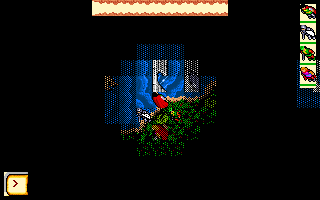
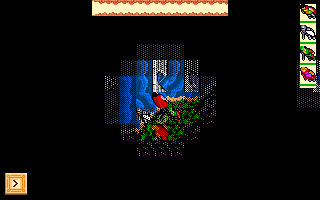
Make the Nuvie new-style UI the only look; drop the new_style_ui option and the old scroll paths

Changed region(s): [[0.0, 0.84, 0.0938, 0.99], [0.4062, 0.57, 0.4688, 0.63], [0.5, 0.39, 0.5312, 0.45]]

diff --git a/internal/game/layout.go b/internal/game/layout.go
@@ -86,7 +86,7 @@ type layout struct {
 	shown []byte
 	paper *vga.Pixmap
 	// arts are Nuvie's pictures in the game's colours and backdrops the status area's slot
-	// tiles, made when first drawn (the new style UI)
+	// tiles, made when first drawn
 	arts      map[string]*art
 	backdrops map[int][]byte
 	// showDate and showLog are toggled by the hot keys
@@ -130,7 +130,7 @@ type panel struct {
 	from   image.Rectangle
 	at     image.Point
 	window *inventoryWindow // shown instead of the canvas
-	// gump, in the new style UI, shows the panel as Nuvie's gump; keyed leaves the
+	// gump shows the panel as Nuvie's gump; keyed leaves the
 	// background colour out so that the scroll shows through
 	gump  *gump
 	keyed bool
@@ -169,7 +169,7 @@ func (g *Game) copyView(x0, y0, x1, y1, toX, toY int) {
 // panels returns the scrolls and then the panels shown over the world, the topmost last.
 func (g *Game) panels() (scrolls []image.Rectangle, panels []panel) {
 	add := func(scroll bool, from image.Rectangle, at image.Point) {
-		p := panel{from: from, at: at, keyed: scroll && g.newStyle()}
+		p := panel{from: from, at: at, keyed: scroll}
 		if scroll {
 			scrolls = append(scrolls, p.onScreen().Inset(-scrollPadding))
 		}
@@ -198,13 +198,7 @@ func (g *Game) panels() (scrolls []image.Rectangle, panels []panel) {
 		add(true, statusPanel, image.Pt(right-scrollPadding-statusPanel.Dx(), margin+scrollPadding))
 	}
 	for _, w := range g.windows {
-		p := panel{from: statusPanel, at: w.at, window: w}
-		if g.newStyle() {
-			p.gump = inventoryGump(w.info)
-		} else {
-			scrolls = append(scrolls, p.onScreen().Inset(-scrollPadding))
-		}
-		panels = append(panels, p)
+		panels = append(panels, panel{from: statusPanel, at: w.at, window: w, gump: inventoryGump(w.info)})
 	}
 	if g.showDate || sound.Settings.DisplayedWindDir && g.windBorne() {
 		add(true, datePanel, image.Pt((g.screenWidth-datePanel.Dx())/2, skyPanel.Dy()+scrollPadding+margin))
@@ -246,11 +240,7 @@ func (g *Game) Frame() *host.Frame {
 	copy(g.shown, g.world)
 	scrolls, panels := g.panels()
 	for _, s := range scrolls {
-		if g.newStyle() {
-			g.drawNuvieScroll(s)
-		} else {
-			g.drawScroll(s)
-		}
+		g.drawNuvieScroll(s)
 	}
 	for _, p := range panels {
 		if p.window != nil && p.window.pixels == nil {
@@ -299,17 +289,15 @@ func (g *Game) drawKeyed(p panel) {
 	}
 }
 
-// drawScroll draws a scroll filling r, cut from PAPER.BMP's message scroll, framed by
-// Nuvie's border in the new style UI.
+// drawScroll draws a popup's scroll filling r, cut from PAPER.BMP's message scroll and
+// framed by Nuvie's border.
 func (g *Game) drawScroll(r image.Rectangle) {
 	if g.paper == nil {
 		return
 	}
 	left, top := scrollInner.Min.X-scrollSource.Min.X, scrollInner.Min.Y-scrollSource.Min.Y
 	right, bottom := scrollSource.Max.X-scrollInner.Max.X, scrollSource.Max.Y-scrollInner.Max.Y
-	if sound.Settings.NewStyleUI {
-		defer g.drawBorder(r)
-	}
+	defer g.drawBorder(r)
 	r = r.Intersect(image.Rect(0, 0, g.screenWidth, g.screenHeight))
 	for y := r.Min.Y; y < r.Max.Y; y++ {
 		var from int

diff --git a/internal/game/nuvie_test.go b/internal/game/nuvie_test.go
@@ -3,23 +3,14 @@ package game
 import (
 	"image"
 	"testing"
-
-	"github.com/memmaker/u6-go/internal/sound"
 )
 
-// TestNewStyleUI shows the log, the avatar's inventory in the status area and the second
-// member's window, then the portrait, a menu and a sign, and writes each with the scroll
-// look (ui_*_scroll.png) and the new style (ui_*_new_style.png) to $U6_PNG_DIR. The new
-// style's gumps must send clicks on their parts to the status area's places under them.
-func TestNewStyleUI(t *testing.T) {
+// TestUI shows the log, the avatar's inventory in the status area and the second member's
+// window, then the portrait, a menu and a sign, and writes each to $U6_PNG_DIR (ui_*.png).
+// The gumps must send clicks on their parts to the status area's places under them.
+func TestUI(t *testing.T) {
 	inGame(t, func(g *Game) {
-		defer func() { sound.Settings.NewStyleUI = false }()
-		both := func(name string) {
-			sound.Settings.NewStyleUI = false
-			writePNG(t, g, "ui_"+name+"_scroll.png")
-			sound.Settings.NewStyleUI = true
-			writePNG(t, g, "ui_"+name+"_new_style.png")
-		}
+		shot := func(name string) { writePNG(t, g, "ui_"+name+".png") }
 		g.showLog = true
 		g.StatusDisplay, g.statusMember = cmdStatusEquipment, 0
 		g.StatusDirty = true
@@ -27,7 +18,7 @@ func TestNewStyleUI(t *testing.T) {
 		if g.PartySize > 1 {
 			g.toggleWindow(1)
 		}
-		both("inventory")
+		shot("inventory")
 
 		gp := inventoryGump(g.inventoryInfo())
 		for _, pt := range []image.Point{
@@ -45,14 +36,14 @@ func TestNewStyleUI(t *testing.T) {
 		g.StatusDisplay = cmdStatusPortrait
 		g.StatusDirty = true
 		g.RefreshStatus()
-		both("portrait")
+		shot("portrait")
 
 		g.popup = g.centredPopup([]string{"Save", "Load", "Settings"})
 		g.popup.choice = 0
-		both("menu")
+		shot("menu")
 
 		g.popup = &popup{sign: signText("<BRITAIN>"), choice: noChoice}
-		both("sign")
+		shot("sign")
 		g.popup = nil
 	})
 }

diff --git a/internal/game/windows_test.go b/internal/game/windows_test.go
@@ -5,35 +5,24 @@ import (
 	"testing"
 
 	"github.com/memmaker/u6-go/internal/host"
-	"github.com/memmaker/u6-go/internal/sound"
 )
 
 // TestDragBetweenWindows opens the second member's window, drags a dagger of the avatar's
 // onto it (Move, run as the command runs) and back onto the avatar's doll (Ready), and
 // writes the screen to windows.png ($U6_PNG_DIR).
-// It runs in the scroll look and again in the new style UI (windows_new_style.png).
 func TestDragBetweenWindows(t *testing.T) {
 	inGame(t, func(g *Game) {
 		if g.PartySize < 2 {
 			t.Skip("a party of one")
 		}
-		defer func() { sound.Settings.NewStyleUI = false }()
-		for _, newStyle := range []bool{false, true} {
-			sound.Settings.NewStyleUI = newStyle
-			g.windows = nil
-			dragBetweenWindows(t, g)
-		}
+		dragBetweenWindows(t, g)
 	})
 }
 
 // windowScreenPoint is where the status area's point pt shows in window w.
 func (g *Game) windowScreenPoint(w *inventoryWindow, pt image.Point) image.Point {
-	if g.newStyle() {
-		if at, ok := inventoryGump(w.info).screenPoint(pt, w.at); ok {
-			return at
-		}
-	}
-	return w.at.Add(pt.Sub(statusPanel.Min))
+	at, _ := inventoryGump(w.info).screenPoint(pt, w.at)
+	return at
 }
 
 func dragBetweenWindows(t *testing.T, g *Game) {
@@ -52,11 +41,7 @@ func dragBetweenWindows(t *testing.T, g *Game) {
 		at := g.windowScreenPoint(w, image.Pt(inventoryX, inventoryY))
 		host.MouseX, host.MouseY = at.X+1, at.Y+1
 		g.dragging, g.draggedTile = true, g.tileOf(dagger)
-		if g.newStyle() {
-			writePNG(t, g, "windows_new_style.png")
-		} else {
-			writePNG(t, g, "windows.png")
-		}
+		writePNG(t, g, "windows.png")
 		g.dragging = false
 		if cmd := g.dropOn(selection{obj: dagger}, false); cmd != 'M' || g.queuedTargets[1].obj != second {
 			t.Fatalf("drop on the window: command %d, targets %v", cmd, g.queuedTargets)

diff --git a/internal/game/nuvie.go b/internal/game/nuvie.go
@@ -6,11 +6,9 @@ import (
 	"image/color"
 	"image/png"
 	"strings"
-
-	"github.com/memmaker/u6-go/internal/sound"
 )
 
-// The new style UI's art, from ScummVM's ultima.dat (devtools/create_ultima/files/ultima6,
+// The UI's art, from ScummVM's ultima.dat (devtools/create_ultima/files/ultima6,
 // GPL; see nuvie/COPYING): Nuvie's dialog border, gump backgrounds and buttons, its scroll
 // and sign, and its gump and sign fonts. The pictures are PNG copies of Nuvie's BMPs; the gump
 // font is Nuvie's compiled-in font_gump_data in its doll colours.
@@ -20,9 +18,6 @@ var nuvieArt embed.FS
 
 // nuvieColourKey is the colour Nuvie's pictures leave transparent.
 var nuvieColourKey = color.RGBA{R: 0, G: 0x70, B: 0xfc, A: 0xff}
-
-// newStyle says that the new style UI is on.
-func (g *Game) newStyle() bool { return sound.Settings.NewStyleUI && g.basePalette != nil }
 
 // art is a picture of Nuvie's in the game's colours.
 type art struct {
@@ -228,9 +223,9 @@ func signText(text string) string {
 	return strings.TrimSpace(strings.NewReplacer("<", "", ">", "", "\n", " ").Replace(text))
 }
 
-// showsOnSign says that object n's text is shown on Nuvie's sign (in the new style UI).
+// showsOnSign says that object n's text is shown on Nuvie's sign.
 func (g *Game) showsOnSign(n int, text string) bool {
-	return g.newStyle() && g.object(n).Type() == ObjSign && len(signText(text)) <= signTextLimit
+	return g.object(n).Type() == ObjSign && len(signText(text)) <= signTextLimit
 }
 
 // drawSign draws Nuvie's sign in the middle of the screen with text on it (SignViewGump).

diff --git a/internal/game/gumps.go b/internal/game/gumps.go
@@ -5,7 +5,7 @@ import (
 	"image"
 )
 
-// The new style UI's gumps (after Nuvie's DollViewGump, ContainerViewGump and
+// The UI's gumps (after Nuvie's DollViewGump, ContainerViewGump and
 // PortraitViewGump): Nuvie's background art with parts of the status area's picture placed on
 // it. A click on a part goes to the status area's place under it, so the game's own clicks,
 // commands and checks apply as in the original look.
@@ -35,7 +35,7 @@ type gumpText struct {
 	at   image.Point
 }
 
-// gump is a panel of the new style UI.
+// gump is a panel of the UI.
 type gump struct {
 	size  image.Point
 	parts []gumpPart
@@ -236,9 +236,9 @@ func (g *Game) portraitGump(i int) *gump {
 	return gp
 }
 
-// statusGump is the gump the status area shows as in the new style UI, or nil.
+// statusGump is the gump the status area shows, or nil.
 func (g *Game) statusGump() *gump {
-	if !g.newStyle() || g.spellPeek {
+	if g.spellPeek {
 		return nil
 	}
 	switch g.StatusDisplay {

diff --git a/internal/game/windows.go b/internal/game/windows.go
@@ -31,7 +31,7 @@ type inventoryWindow struct {
 	member int
 	at     image.Point
 	pixels []byte
-	// info is what the window's gump writes (the new style UI)
+	// info is what the window's gump writes
 	info inventoryInfo
 }
 
@@ -53,10 +53,7 @@ func (g *Game) toggleWindow(member int) {
 
 // placeWindow moves w's corner to at, kept on the screen.
 func (g *Game) placeWindow(w *inventoryWindow, at image.Point) {
-	edge, size := margin+scrollPadding, statusPanel.Size()
-	if g.newStyle() {
-		edge, size = margin, inventoryGump(w.info).size
-	}
+	edge, size := margin, inventoryGump(w.info).size
 	w.at.X = max(min(at.X, g.screenWidth-edge-size.X), edge)
 	w.at.Y = max(min(at.Y, g.screenHeight-edge-size.Y), edge)
 }

diff --git a/internal/game/talk_test.go b/internal/game/talk_test.go
@@ -184,9 +184,6 @@ func TestTalkToTholden(t *testing.T) {
 	say("job")
 	writePNG(t, g, "talk.png")
 	writePNG(t, g, "conversation.png")
-	sound.Settings.NewStyleUI = true
-	writePNG(t, g, "conversation_new_style.png")
-	sound.Settings.NewStyleUI = false
 	say("bye")
 	// the farewell stays on the speech scroll after the log clip comes back
 	transcript.WriteString(clipText(g, clip{x0: speechX0, y0: speechY0, width: speechColumns, height: speechRows, bg: g.clips[clipMessage].bg}))

diff --git a/internal/sound/options.go b/internal/sound/options.go
@@ -23,9 +23,6 @@ type Options struct {
 	MapTileLighting bool `json:"map_tile_lighting"`
 	// SquarePixels shows square pixels instead of the CRT's 4:3 picture.
 	SquarePixels bool `json:"square_pixels"`
-	// NewStyleUI frames the panels and popups with Nuvie's new style border instead of the
-	// scroll of PAPER.BMP.
-	NewStyleUI bool `json:"new_style_ui"`
 }
 
 // Settings are the options in force; set them before Start.

diff --git a/internal/game/gamemenu.go b/internal/game/gamemenu.go
@@ -45,7 +45,6 @@ var settings = []setting{
 	option("Smooth lighting", &sound.Settings.SmoothLighting),
 	option("Map tile lighting", &sound.Settings.MapTileLighting),
 	option("Square pixels", &sound.Settings.SquarePixels),
-	option("New style UI", &sound.Settings.NewStyleUI),
 }
 
 // talkMusicChoices are the TalkMusic settings in the order the settings page steps through them.

diff --git a/internal/game/ui.go b/internal/game/ui.go
@@ -54,7 +54,7 @@ type popup struct {
 	lines  []string
 	at     image.Point
 	choice int
-	// sign, when set, shows Nuvie's sign with this text instead (the new style UI)
+	// sign, when set, shows Nuvie's sign with this text instead
 	sign string
 }
 
